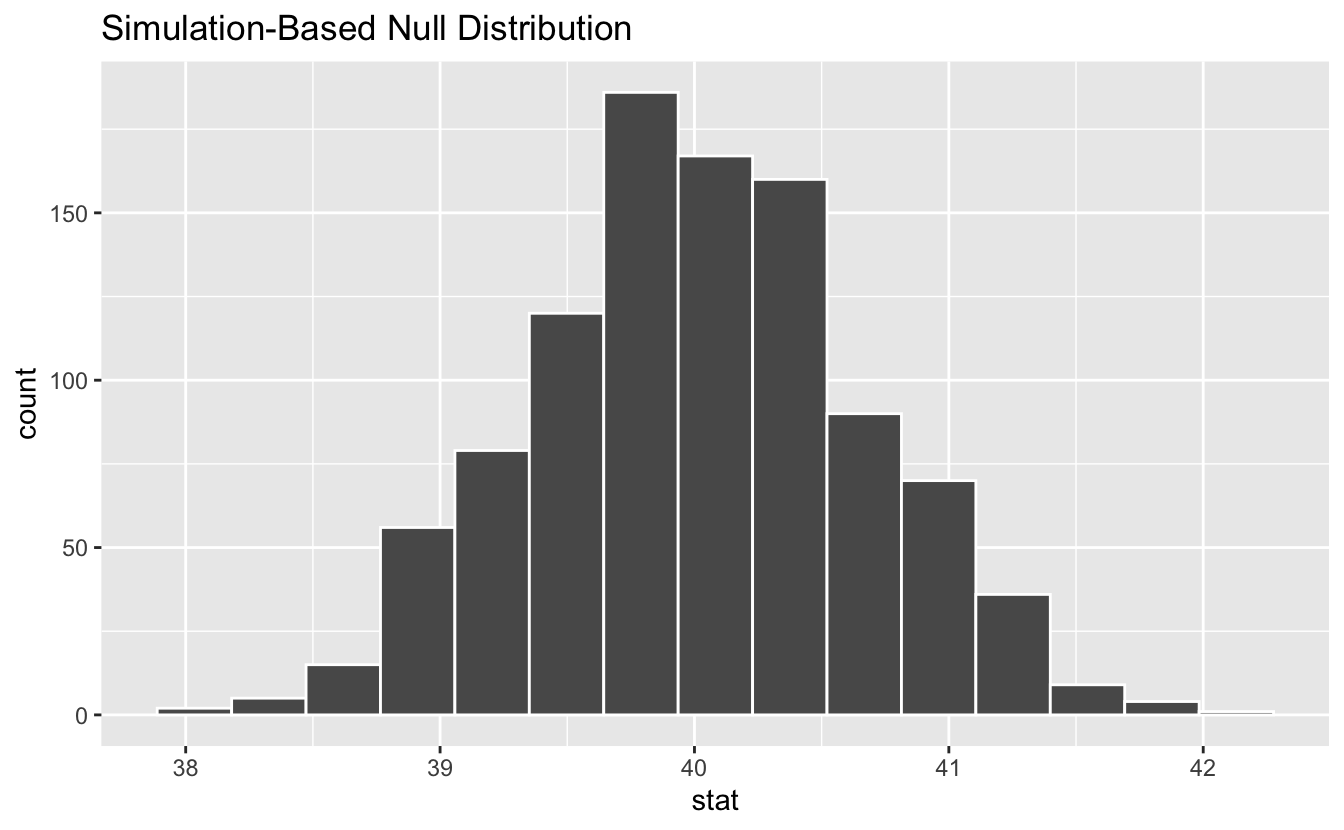
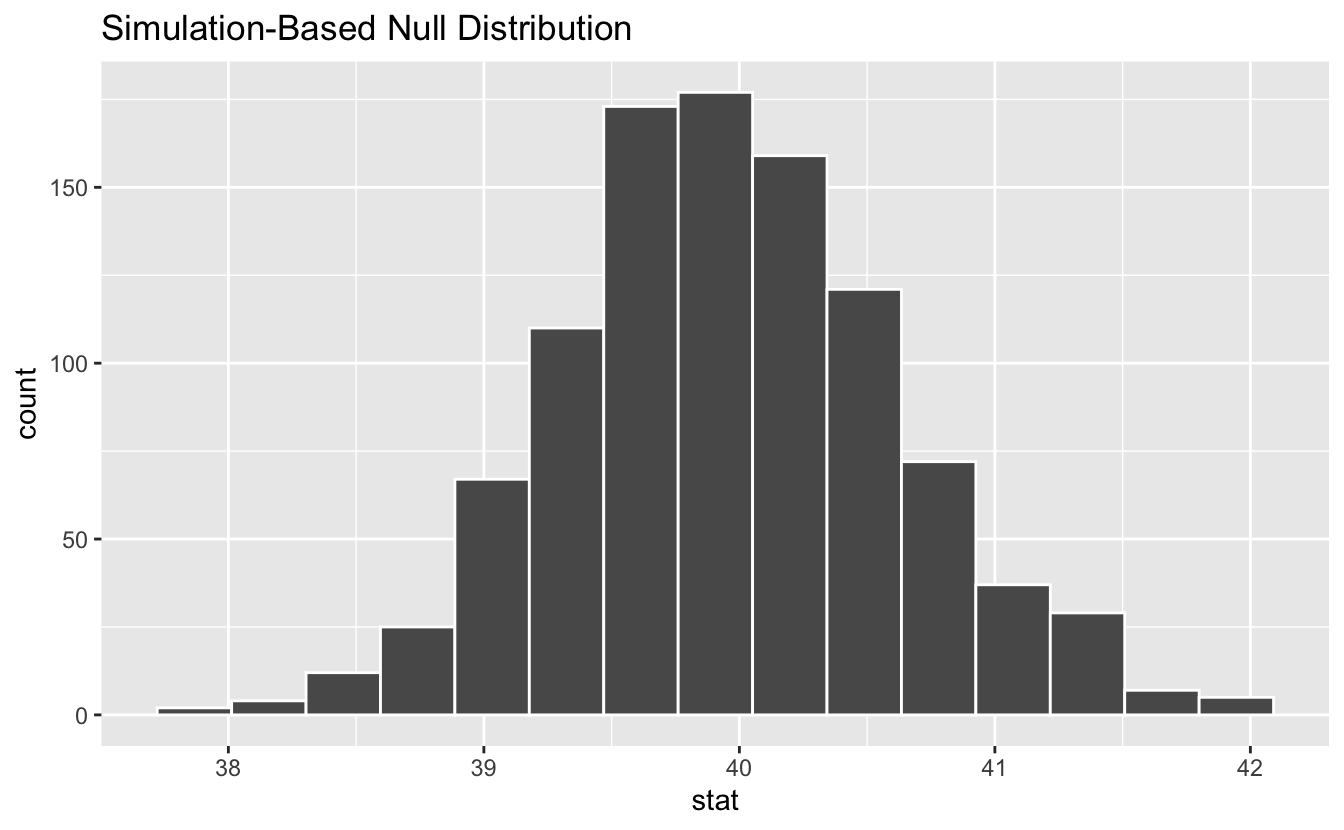
bump release date

diff --git a/content/blog/infer-1-0-0/index.md b/content/blog/infer-1-0-0/index.md
@@ -3,7 +3,7 @@ output: hugodown::hugo_document
 
 slug: infer-1-0-0
 title: infer 1 0 0
-date: 2021-06-15
+date: 2021-07-19
 author: Simon Couch
 description: >
     The first major release of infer, a package implementing a unified approach
@@ -15,7 +15,7 @@ photo:
 
 categories: [package] 
 tags: [tidymodels]
-rmd_hash: 9f1aa95b6fb27a0d
+rmd_hash: fce51843ad7a033e
 
 ---
 
@@ -267,16 +267,16 @@ Continuing on with our example above, about the average number of hours worked a
 <span class='c'>#&gt; <span style='color: #555555;'># Groups:   replicate [1,000]</span></span>
 <span class='c'>#&gt;    replicate hours</span>
 <span class='c'>#&gt;        <span style='color: #555555; font-style: italic;'>&lt;int&gt;</span> <span style='color: #555555; font-style: italic;'>&lt;dbl&gt;</span></span>
-<span class='c'>#&gt; <span style='color: #555555;'> 1</span>         1  73.6</span>
+<span class='c'>#&gt; <span style='color: #555555;'> 1</span>         1  53.6</span>
 <span class='c'>#&gt; <span style='color: #555555;'> 2</span>         1  38.6</span>
-<span class='c'>#&gt; <span style='color: #555555;'> 3</span>         1  43.6</span>
-<span class='c'>#&gt; <span style='color: #555555;'> 4</span>         1  58.6</span>
-<span class='c'>#&gt; <span style='color: #555555;'> 5</span>         1  41.6</span>
-<span class='c'>#&gt; <span style='color: #555555;'> 6</span>         1  22.6</span>
-<span class='c'>#&gt; <span style='color: #555555;'> 7</span>         1  42.6</span>
-<span class='c'>#&gt; <span style='color: #555555;'> 8</span>         1  12.6</span>
-<span class='c'>#&gt; <span style='color: #555555;'> 9</span>         1  18.6</span>
-<span class='c'>#&gt; <span style='color: #555555;'>10</span>         1  41.6</span>
+<span class='c'>#&gt; <span style='color: #555555;'> 3</span>         1  38.6</span>
+<span class='c'>#&gt; <span style='color: #555555;'> 4</span>         1  55.6</span>
+<span class='c'>#&gt; <span style='color: #555555;'> 5</span>         1  13.6</span>
+<span class='c'>#&gt; <span style='color: #555555;'> 6</span>         1  38.6</span>
+<span class='c'>#&gt; <span style='color: #555555;'> 7</span>         1  22.6</span>
+<span class='c'>#&gt; <span style='color: #555555;'> 8</span>         1  38.6</span>
+<span class='c'>#&gt; <span style='color: #555555;'> 9</span>         1  46.6</span>
+<span class='c'>#&gt; <span style='color: #555555;'>10</span>         1  38.6</span>
 <span class='c'>#&gt; <span style='color: #555555;'># … with 499,990 more rows</span></span></code></pre>
 
 </div>
@@ -298,16 +298,16 @@ To generate a null distribution for the independence of two variables, we could 
 <span class='c'>#&gt; <span style='color: #555555;'># Groups:   replicate [1,000]</span></span>
 <span class='c'>#&gt;    partyid   age replicate</span>
 <span class='c'>#&gt;    <span style='color: #555555; font-style: italic;'>&lt;fct&gt;</span>   <span style='color: #555555; font-style: italic;'>&lt;dbl&gt;</span>     <span style='color: #555555; font-style: italic;'>&lt;int&gt;</span></span>
-<span class='c'>#&gt; <span style='color: #555555;'> 1</span> dem        36         1</span>
+<span class='c'>#&gt; <span style='color: #555555;'> 1</span> ind        36         1</span>
 <span class='c'>#&gt; <span style='color: #555555;'> 2</span> ind        34         1</span>
-<span class='c'>#&gt; <span style='color: #555555;'> 3</span> rep        24         1</span>
-<span class='c'>#&gt; <span style='color: #555555;'> 4</span> dem        42         1</span>
+<span class='c'>#&gt; <span style='color: #555555;'> 3</span> ind        24         1</span>
+<span class='c'>#&gt; <span style='color: #555555;'> 4</span> ind        42         1</span>
 <span class='c'>#&gt; <span style='color: #555555;'> 5</span> ind        31         1</span>
-<span class='c'>#&gt; <span style='color: #555555;'> 6</span> ind        32         1</span>
-<span class='c'>#&gt; <span style='color: #555555;'> 7</span> rep        48         1</span>
-<span class='c'>#&gt; <span style='color: #555555;'> 8</span> rep        36         1</span>
-<span class='c'>#&gt; <span style='color: #555555;'> 9</span> dem        30         1</span>
-<span class='c'>#&gt; <span style='color: #555555;'>10</span> rep        33         1</span>
+<span class='c'>#&gt; <span style='color: #555555;'> 6</span> rep        32         1</span>
+<span class='c'>#&gt; <span style='color: #555555;'> 7</span> ind        48         1</span>
+<span class='c'>#&gt; <span style='color: #555555;'> 8</span> other      36         1</span>
+<span class='c'>#&gt; <span style='color: #555555;'> 9</span> rep        30         1</span>
+<span class='c'>#&gt; <span style='color: #555555;'>10</span> ind        33         1</span>
 <span class='c'>#&gt; <span style='color: #555555;'># … with 499,990 more rows</span></span></code></pre>
 
 </div>
@@ -328,16 +328,16 @@ To generate a null distribution for the independence of two variables, we could 
 <span class='c'>#&gt; <span style='color: #555555;'># A tibble: 1,000 x 2</span></span>
 <span class='c'>#&gt;    replicate  stat</span>
 <span class='c'>#&gt;        <span style='color: #555555; font-style: italic;'>&lt;int&gt;</span> <span style='color: #555555; font-style: italic;'>&lt;dbl&gt;</span></span>
-<span class='c'>#&gt; <span style='color: #555555;'> 1</span>         1  39.6</span>
-<span class='c'>#&gt; <span style='color: #555555;'> 2</span>         2  38.9</span>
-<span class='c'>#&gt; <span style='color: #555555;'> 3</span>         3  39.5</span>
-<span class='c'>#&gt; <span style='color: #555555;'> 4</span>         4  41.3</span>
-<span class='c'>#&gt; <span style='color: #555555;'> 5</span>         5  41.5</span>
-<span class='c'>#&gt; <span style='color: #555555;'> 6</span>         6  38.7</span>
-<span class='c'>#&gt; <span style='color: #555555;'> 7</span>         7  39.9</span>
-<span class='c'>#&gt; <span style='color: #555555;'> 8</span>         8  39.8</span>
-<span class='c'>#&gt; <span style='color: #555555;'> 9</span>         9  40.3</span>
-<span class='c'>#&gt; <span style='color: #555555;'>10</span>        10  39.9</span>
+<span class='c'>#&gt; <span style='color: #555555;'> 1</span>         1  40.2</span>
+<span class='c'>#&gt; <span style='color: #555555;'> 2</span>         2  40.1</span>
+<span class='c'>#&gt; <span style='color: #555555;'> 3</span>         3  40.5</span>
+<span class='c'>#&gt; <span style='color: #555555;'> 4</span>         4  41.5</span>
+<span class='c'>#&gt; <span style='color: #555555;'> 5</span>         5  39.6</span>
+<span class='c'>#&gt; <span style='color: #555555;'> 6</span>         6  40.0</span>
+<span class='c'>#&gt; <span style='color: #555555;'> 7</span>         7  40.5</span>
+<span class='c'>#&gt; <span style='color: #555555;'> 8</span>         8  40.7</span>
+<span class='c'>#&gt; <span style='color: #555555;'> 9</span>         9  40.1</span>
+<span class='c'>#&gt; <span style='color: #555555;'>10</span>        10  39.1</span>
 <span class='c'>#&gt; <span style='color: #555555;'># … with 990 more rows</span></span></code></pre>
 
 </div>
@@ -415,11 +415,11 @@ Notice that infer has also shaded the regions of the null distribution that are 
 <span class='c'>#&gt; <span style='color: #555555;'># A tibble: 1 x 1</span></span>
 <span class='c'>#&gt;   p_value</span>
 <span class='c'>#&gt;     <span style='color: #555555; font-style: italic;'>&lt;dbl&gt;</span></span>
-<span class='c'>#&gt; <span style='color: #555555;'>1</span>   0.028</span></code></pre>
+<span class='c'>#&gt; <span style='color: #555555;'>1</span>   0.032</span></code></pre>
 
 </div>
 
-It looks like the p-value is 0.028, which is pretty small---if the true mean number of hours worked per week was actually 40, the probability of our sample mean being this far (1.382 hours) from 40 would be 0.028. This may or may not be statistically significantly different, depending on the significance level $\alpha$ you decided on *before* you ran this analysis. If you had set $\alpha = .05$, then this difference would be statistically significant, but if you had set $\alpha = .01$, then it would not be.
+It looks like the p-value is 0.032, which is pretty small---if the true mean number of hours worked per week was actually 40, the probability of our sample mean being this far (1.382 hours) from 40 would be 0.032. This may or may not be statistically significantly different, depending on the significance level $\alpha$ you decided on *before* you ran this analysis. If you had set $\alpha = .05$, then this difference would be statistically significant, but if you had set $\alpha = .01$, then it would not be.
 
 To get a confidence interval around our estimate, we can write:
 
@@ -434,7 +434,7 @@ To get a confidence interval around our estimate, we can write:
 <span class='c'>#&gt; <span style='color: #555555;'># A tibble: 1 x 2</span></span>
 <span class='c'>#&gt;   lower_ci upper_ci</span>
 <span class='c'>#&gt;      <span style='color: #555555; font-style: italic;'>&lt;dbl&gt;</span>    <span style='color: #555555; font-style: italic;'>&lt;dbl&gt;</span></span>
-<span class='c'>#&gt; <span style='color: #555555;'>1</span>     40.1     42.6</span></code></pre>
+<span class='c'>#&gt; <span style='color: #555555;'>1</span>     40.1     42.7</span></code></pre>
 
 </div>
 
@@ -483,16 +483,16 @@ If passed a [`generate()`](https://infer.tidymodels.org/reference/generate.html)
 <span class='c'>#&gt; <span style='color: #555555;'># Groups:   replicate [100]</span></span>
 <span class='c'>#&gt;    replicate term          estimate</span>
 <span class='c'>#&gt;        <span style='color: #555555; font-style: italic;'>&lt;int&gt;</span> <span style='color: #555555; font-style: italic;'>&lt;chr&gt;</span>            <span style='color: #555555; font-style: italic;'>&lt;dbl&gt;</span></span>
-<span class='c'>#&gt; <span style='color: #555555;'> 1</span>         1 intercept      39.3   </span>
-<span class='c'>#&gt; <span style='color: #555555;'> 2</span>         1 age             0.064<span style='text-decoration: underline;'>3</span></span>
-<span class='c'>#&gt; <span style='color: #555555;'> 3</span>         1 collegedegree  -<span style='color: #BB0000;'>1.33</span>  </span>
-<span class='c'>#&gt; <span style='color: #555555;'> 4</span>         2 intercept      43.5   </span>
-<span class='c'>#&gt; <span style='color: #555555;'> 5</span>         2 age            -<span style='color: #BB0000;'>0.043</span><span style='color: #BB0000; text-decoration: underline;'>5</span></span>
-<span class='c'>#&gt; <span style='color: #555555;'> 6</span>         2 collegedegree  -<span style='color: #BB0000;'>1.00</span>  </span>
-<span class='c'>#&gt; <span style='color: #555555;'> 7</span>         3 intercept      40.4   </span>
-<span class='c'>#&gt; <span style='color: #555555;'> 8</span>         3 age             0.013<span style='text-decoration: underline;'>8</span></span>
-<span class='c'>#&gt; <span style='color: #555555;'> 9</span>         3 collegedegree   1.10  </span>
-<span class='c'>#&gt; <span style='color: #555555;'>10</span>         4 intercept      43.7   </span>
+<span class='c'>#&gt; <span style='color: #555555;'> 1</span>         1 intercept      44.3   </span>
+<span class='c'>#&gt; <span style='color: #555555;'> 2</span>         1 age            -<span style='color: #BB0000;'>0.088</span><span style='color: #BB0000; text-decoration: underline;'>6</span></span>
+<span class='c'>#&gt; <span style='color: #555555;'> 3</span>         1 collegedegree   1.79  </span>
+<span class='c'>#&gt; <span style='color: #555555;'> 4</span>         2 intercept      44.9   </span>
+<span class='c'>#&gt; <span style='color: #555555;'> 5</span>         2 age            -<span style='color: #BB0000;'>0.092</span><span style='color: #BB0000; text-decoration: underline;'>3</span></span>
+<span class='c'>#&gt; <span style='color: #555555;'> 6</span>         2 collegedegree   0.700 </span>
+<span class='c'>#&gt; <span style='color: #555555;'> 7</span>         3 intercept      38.1   </span>
+<span class='c'>#&gt; <span style='color: #555555;'> 8</span>         3 age             0.084<span style='text-decoration: underline;'>6</span></span>
+<span class='c'>#&gt; <span style='color: #555555;'> 9</span>         3 collegedegree  -<span style='color: #BB0000;'>0.463</span> </span>
+<span class='c'>#&gt; <span style='color: #555555;'>10</span>         4 intercept      43.2   </span>
 <span class='c'>#&gt; <span style='color: #555555;'># … with 290 more rows</span></span></code></pre>
 
 </div>
@@ -508,18 +508,18 @@ If `type = "permute"`, a set of unquoted column names in the data to permute (in
   <span class='nf'><a href='https://generics.r-lib.org/reference/fit.html'>fit</a></span><span class='o'>(</span><span class='o'>)</span>
 <span class='c'>#&gt; <span style='color: #555555;'># A tibble: 300 x 3</span></span>
 <span class='c'>#&gt; <span style='color: #555555;'># Groups:   replicate [100]</span></span>
-<span class='c'>#&gt;    replicate term          estimate</span>
-<span class='c'>#&gt;        <span style='color: #555555; font-style: italic;'>&lt;int&gt;</span> <span style='color: #555555; font-style: italic;'>&lt;chr&gt;</span>            <span style='color: #555555; font-style: italic;'>&lt;dbl&gt;</span></span>
-<span class='c'>#&gt; <span style='color: #555555;'> 1</span>         1 intercept      40.2   </span>
-<span class='c'>#&gt; <span style='color: #555555;'> 2</span>         1 age             0.019<span style='text-decoration: underline;'>9</span></span>
-<span class='c'>#&gt; <span style='color: #555555;'> 3</span>         1 collegedegree   1.07  </span>
-<span class='c'>#&gt; <span style='color: #555555;'> 4</span>         2 intercept      40.6   </span>
-<span class='c'>#&gt; <span style='color: #555555;'> 5</span>         2 age             0.013<span style='text-decoration: underline;'>5</span></span>
-<span class='c'>#&gt; <span style='color: #555555;'> 6</span>         2 collegedegree   0.777 </span>
-<span class='c'>#&gt; <span style='color: #555555;'> 7</span>         3 intercept      38.7   </span>
-<span class='c'>#&gt; <span style='color: #555555;'> 8</span>         3 age             0.074<span style='text-decoration: underline;'>5</span></span>
-<span class='c'>#&gt; <span style='color: #555555;'> 9</span>         3 collegedegree  -<span style='color: #BB0000;'>1.01</span>  </span>
-<span class='c'>#&gt; <span style='color: #555555;'>10</span>         4 intercept      38.7   </span>
+<span class='c'>#&gt;    replicate term           estimate</span>
+<span class='c'>#&gt;        <span style='color: #555555; font-style: italic;'>&lt;int&gt;</span> <span style='color: #555555; font-style: italic;'>&lt;chr&gt;</span>             <span style='color: #555555; font-style: italic;'>&lt;dbl&gt;</span></span>
+<span class='c'>#&gt; <span style='color: #555555;'> 1</span>         1 intercept     41.1     </span>
+<span class='c'>#&gt; <span style='color: #555555;'> 2</span>         1 age           -<span style='color: #BB0000;'>0.000</span><span style='color: #BB0000; text-decoration: underline;'>332</span></span>
+<span class='c'>#&gt; <span style='color: #555555;'> 3</span>         1 collegedegree  0.771   </span>
+<span class='c'>#&gt; <span style='color: #555555;'> 4</span>         2 intercept     42.9     </span>
+<span class='c'>#&gt; <span style='color: #555555;'> 5</span>         2 age           -<span style='color: #BB0000;'>0.043</span><span style='color: #BB0000; text-decoration: underline;'>3</span>  </span>
+<span class='c'>#&gt; <span style='color: #555555;'> 6</span>         2 collegedegree  0.522   </span>
+<span class='c'>#&gt; <span style='color: #555555;'> 7</span>         3 intercept     43.1     </span>
+<span class='c'>#&gt; <span style='color: #555555;'> 8</span>         3 age           -<span style='color: #BB0000;'>0.053</span><span style='color: #BB0000; text-decoration: underline;'>8</span>  </span>
+<span class='c'>#&gt; <span style='color: #555555;'> 9</span>         3 collegedegree  1.28    </span>
+<span class='c'>#&gt; <span style='color: #555555;'>10</span>         4 intercept     37.8     </span>
 <span class='c'>#&gt; <span style='color: #555555;'># … with 290 more rows</span></span></code></pre>
 
 </div>
